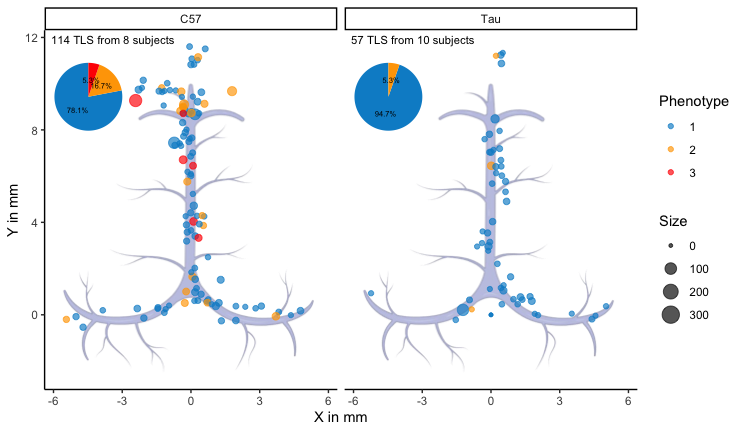
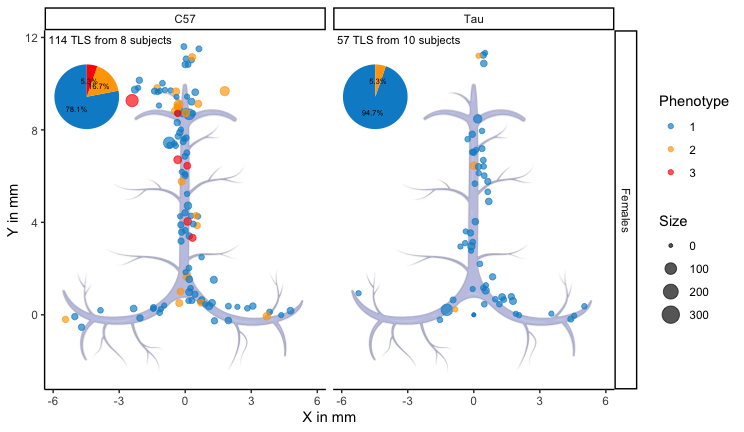
Split sexes in comparison

diff --git a/reports/Dp1tyb_C57.md b/reports/Dp1tyb_C57.md
@@ -1,4 +1,4 @@
-# comparison
+# Strain Comparison
 
 <img src="plots/Dp1tyb_C57fig-loc-1.png" id="fig-loc"
 alt="Figure 1: Scatter plot of TLSs around meninges. Each dot represents one structure, sized by dimension, coloured by phenotype and labeled by sample. Each panel corresponds to a mice group based on sex and age category." />

diff --git a/reports/Tau_C57.md b/reports/Tau_C57.md
@@ -1,4 +1,4 @@
-# comparison
+# Strain Comparison
 
 <img src="plots/Tau_C57fig-loc-1.png" id="fig-loc"
 alt="Figure 1: Scatter plot of TLSs around meninges. Each dot represents one structure, sized by dimension, coloured by phenotype and labeled by sample. Each panel corresponds to a mice group based on sex and age category." />
